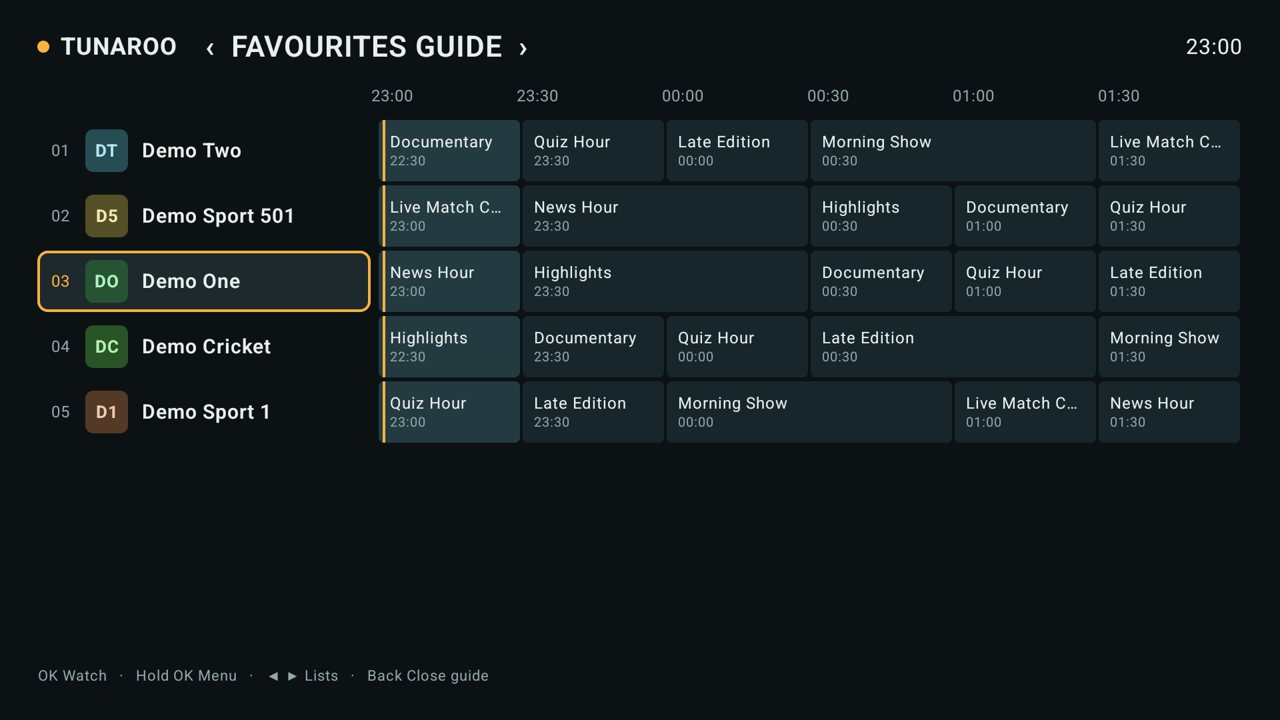
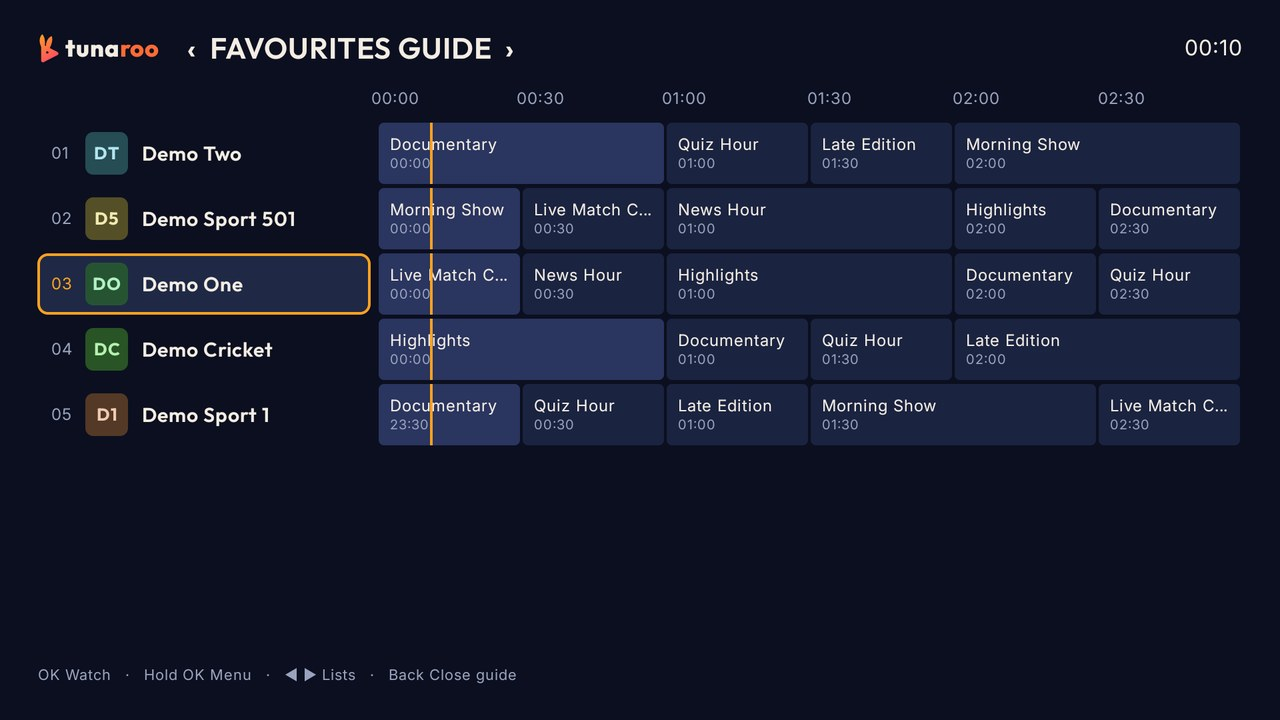
Restyle the download page in the Tunaroo brand
New logo, colours and fonts, a favicon and a share image, and fresh
screenshots of the branded player.

Claude-Session: https://claude.ai/code/session_014Md2msjondGrcrrcFXZZUN

diff --git a/index.html b/index.html
@@ -5,33 +5,45 @@
 <meta name="viewport" content="width=device-width, initial-scale=1">
 <meta name="robots" content="noindex, nofollow">
 <title>Tunaroo TV player</title>
+<link rel="icon" type="image/svg+xml" href="https://raw.githubusercontent.com/chippachip/tunaroo-downloads/main/favicon.svg">
+<link rel="apple-touch-icon" href="https://raw.githubusercontent.com/chippachip/tunaroo-downloads/main/icon-180.png">
+<meta property="og:title" content="Tunaroo TV player">
+<meta property="og:description" content="Your telly, your order. A TV player for Android TV boxes.">
+<meta property="og:image" content="https://raw.githubusercontent.com/chippachip/tunaroo-downloads/main/share.png">
+<meta name="theme-color" content="#0B1020">
+<link rel="preconnect" href="https://fonts.googleapis.com">
+<link rel="preconnect" href="https://fonts.gstatic.com" crossorigin>
+<link href="https://fonts.googleapis.com/css2?family=Inter:wght@400;500;600&family=Outfit:wght@600;700;800&display=swap" rel="stylesheet">
 <style>
-:root{--bg:#0d1315;--panel:#141c1f;--line:#27363b;--text:#e9efed;--muted:#93a7aa;--accent:#ffb23e;--ink:#1d1300}
+:root{--night:#0B1020;--dusk:#161D33;--line:#2B3555;--sand:#F4EDE4;--mist:#9AA3BD;--ochre:#FFA21F;--orange:#FF6B35;--coral:#FF3D6E;--gum:#2ED3B7;--sunset:linear-gradient(135deg,#FFA21F 0%,#FF3D6E 100%)}
 *{box-sizing:border-box}
-body{margin:0;background:var(--bg);color:var(--text);font:16px/1.55 -apple-system,"Segoe UI",Roboto,Helvetica,Arial,sans-serif}
+body{margin:0;background:var(--night) radial-gradient(ellipse 70% 50% at 20% 0%,rgba(255,107,53,.16),transparent 70%) no-repeat;color:var(--sand);font:16px/1.6 "Inter",-apple-system,"Segoe UI",Roboto,Helvetica,Arial,sans-serif}
 main{max-width:920px;margin:0 auto;padding:40px 20px 60px}
-.brand{display:flex;align-items:center;gap:12px;font-weight:800;font-size:28px;letter-spacing:.08em}
-.brand i{width:14px;height:14px;border-radius:50%;background:var(--accent)}
-h1{font-size:clamp(28px,5vw,42px);line-height:1.15;margin:28px 0 10px;max-width:18ch}
-h2{font-size:20px;margin:36px 0 10px}
+.logo{display:block;height:64px;width:auto}
+h1,h2,.btn{font-family:"Outfit","Inter",sans-serif}
+h1{font-size:clamp(32px,6vw,52px);font-weight:800;line-height:1.08;letter-spacing:-.01em;margin:36px 0 12px;max-width:16ch}
+h2{font-size:22px;font-weight:700;margin:40px 0 10px}
 p{margin:0 0 12px;max-width:65ch}
-.muted{color:var(--muted)}
-.cta{display:flex;flex-wrap:wrap;align-items:center;gap:14px 20px;margin:22px 0 8px}
-.btn{display:inline-block;background:var(--accent);color:var(--ink);font-weight:700;text-decoration:none;padding:14px 22px;border-radius:8px;font-size:18px}
-.btn:focus-visible{outline:3px solid #fff;outline-offset:3px}
-.addr{font-family:ui-monospace,Menlo,Consolas,monospace;background:var(--panel);border:1px solid var(--line);border-radius:6px;padding:4px 8px;overflow-wrap:anywhere}
-.shots{display:grid;grid-template-columns:repeat(auto-fit,minmax(260px,1fr));gap:14px;margin:26px 0 6px}
-.shots img{width:100%;height:auto;border-radius:8px;border:1px solid var(--line);display:block}
+.muted{color:var(--mist)}
+.cta{display:flex;flex-wrap:wrap;align-items:center;gap:14px 20px;margin:24px 0 8px}
+.btn{display:inline-block;background:var(--sunset);color:#fff;font-weight:700;text-decoration:none;padding:15px 24px;border-radius:12px;font-size:18px;text-shadow:0 1px 2px rgba(120,20,0,.35)}
+.btn:hover{filter:brightness(1.06)}
+.btn:focus-visible{outline:4px solid var(--ochre);outline-offset:3px}
+.addr{font-family:ui-monospace,Menlo,Consolas,monospace;font-size:14px;background:var(--dusk);border:1px solid var(--line);border-radius:6px;padding:4px 8px;overflow-wrap:anywhere}
+.shots{display:grid;grid-template-columns:repeat(auto-fit,minmax(260px,1fr));gap:14px;margin:28px 0 6px}
+.shots img{width:100%;height:auto;border-radius:12px;border:1px solid var(--line);display:block}
 ul,ol{margin:0 0 12px;padding-left:22px;max-width:65ch}
 li{margin-bottom:6px}
-.note{border-left:3px solid var(--accent);background:var(--panel);padding:12px 16px;border-radius:0 8px 8px 0;margin:18px 0;max-width:65ch}
-footer{margin-top:40px;padding-top:18px;border-top:1px solid var(--line);color:var(--muted);font-size:14px}
+li::marker{color:var(--orange)}
+.note{border-left:3px solid var(--ochre);background:var(--dusk);padding:12px 16px;border-radius:0 12px 12px 0;margin:20px 0;max-width:65ch}
+footer{margin-top:44px;padding-top:18px;border-top:1px solid var(--line);color:var(--mist);font-size:14px}
 </style>
+
 </head>
 <body>
 <main>
-  <div class="brand"><i aria-hidden="true"></i>TUNAROO</div>
-  <h1>Your channels, in your order.</h1>
+  <svg class="logo" role="img" aria-label="Tunaroo" xmlns="http://www.w3.org/2000/svg" viewBox="0 0 1064 304"><defs><linearGradient id="sun" x1="0" y1="0" x2="1" y2="1"><stop offset="0" stop-color="#FFA21F"/><stop offset="1" stop-color="#FF3D6E"/></linearGradient><linearGradient id="sunu" gradientUnits="userSpaceOnUse" x1="127" y1="77" x2="385" y2="435"><stop offset="0" stop-color="#FFA21F"/><stop offset="1" stop-color="#FF3D6E"/></linearGradient></defs><g transform="translate(0,0) scale(0.8)"><g transform="translate(-116,-66)"><path d="M170 246 C132 180 141 109 179 77 C213 113 219 175 209 246 Z M226 252 C219 180 251 117 299 101 C317 145 300 205 268 264 Z" fill="url(#sunu)" stroke="url(#sunu)" stroke-width="6" stroke-linejoin="round"/><path fill-rule="evenodd" d="M197.02 213.41 A22 22 0 0 0 165.00 233.00 L165.00 413.00 A22 22 0 0 0 197.02 432.59 L373.02 342.59 A22 22 0 0 0 373.02 303.41 Z M258 309 a15 15 0 1 0 -30 0 a15 15 0 1 0 30 0 Z" fill="url(#sunu)"/></g></g><path d="M275.96 262.0V109.97999999999999H314.24V262.0ZM252.2 186.32V154.42000000000002H338.0V186.32Z M398.5 264.42Q383.32 264.42 371.54999999999995 258.37Q359.78 252.32 353.07 241.43Q346.36 230.54 346.36 216.68V154.42000000000002H384.64V216.68Q384.64 221.07999999999998 386.4 224.38Q388.16 227.68 391.24 229.44Q394.32 231.2 398.5 231.2Q404.65999999999997 231.2 408.51 227.24Q412.36 223.28 412.36 216.68V154.42000000000002H450.64V216.68Q450.64 230.76 444.03999999999996 241.54Q437.44 252.32 425.66999999999996 258.37Q413.9 264.42 398.5 264.42Z M537.76 262.0V201.28Q537.76 193.8 533.36 189.51Q528.96 185.22 522.14 185.22Q517.52 185.22 513.89 187.2Q510.26 189.18 508.28 192.7Q506.3 196.22 506.3 201.28L491.34000000000003 194.24Q491.34000000000003 181.26 497.06000000000006 171.91Q502.78000000000003 162.56 512.79 157.39Q522.8 152.22 535.5600000000001 152.22Q547.22 152.22 556.35 157.61Q565.48 163.0 570.76 172.02Q576.04 181.04000000000002 576.04 192.48000000000002V262.0ZM468.02000000000004 262.0V154.42000000000002H506.3V262.0Z M638.96 264.2Q624.0 264.2 612.34 256.94Q600.6800000000001 249.68 594.08 237.03Q587.48 224.38 587.48 208.32Q587.48 192.04000000000002 594.08 179.28Q600.6800000000001 166.51999999999998 612.34 159.37Q624.0 152.22 638.96 152.22Q649.08 152.22 657.44 155.85000000000002Q665.8 159.48000000000002 671.19 166.08Q676.58 172.68 677.6800000000001 181.04000000000002V235.16Q676.58 243.74 671.19 250.23000000000002Q665.8 256.72 657.44 260.46000000000004Q649.08 264.2 638.96 264.2ZM647.1 230.1Q656.5600000000001 230.1 662.3900000000001 223.94Q668.22 217.78 668.22 208.1Q668.22 201.72 665.58 196.88Q662.94 192.04000000000002 658.21 189.18Q653.48 186.32 647.32 186.32Q641.16 186.32 636.4300000000001 189.18Q631.7 192.04000000000002 628.95 196.99Q626.2 201.94 626.2 208.1Q626.2 214.48 628.84 219.43Q631.48 224.38 636.3199999999999 227.24Q641.16 230.1 647.1 230.1ZM666.6800000000001 262.0V233.18L672.1800000000001 206.78L666.6800000000001 180.82V154.42000000000002H704.3V262.0Z" fill="#F4EDE4"/><path d="M724.54 262.0V154.42000000000002H762.8199999999999V262.0ZM762.8199999999999 203.48 745.66 188.95999999999998Q752.04 170.7 762.5999999999999 161.45999999999998Q773.16 152.22 790.0999999999999 152.22Q797.8 152.22 803.41 154.2Q809.02 156.18 812.9799999999999 160.36L790.76 190.06Q789.0 188.07999999999998 785.81 186.87Q782.6199999999999 185.66 778.66 185.66Q771.18 185.66 767.0 190.17000000000002Q762.8199999999999 194.68 762.8199999999999 203.48Z M875.02 264.42Q857.64 264.42 844.1099999999999 257.05Q830.5799999999999 249.68 822.66 236.81Q814.74 223.94 814.74 207.88Q814.74 191.82 822.55 179.17Q830.36 166.51999999999998 844.0 159.14999999999998Q857.64 151.78 874.8 151.78Q891.96 151.78 905.49 159.14999999999998Q919.02 166.51999999999998 926.94 179.17Q934.86 191.82 934.86 207.88Q934.86 223.94 927.05 236.81Q919.24 249.68 905.71 257.05Q892.18 264.42 875.02 264.42ZM874.8 230.32Q881.18 230.32 885.91 227.57Q890.64 224.82 893.28 219.76Q895.92 214.7 895.92 208.1Q895.92 201.5 893.17 196.55Q890.42 191.6 885.8 188.85Q881.18 186.1 874.8 186.1Q868.64 186.1 863.8 188.95999999999998Q858.9599999999999 191.82 856.3199999999999 196.76999999999998Q853.68 201.72 853.68 208.32Q853.68 214.7 856.3199999999999 219.76Q858.9599999999999 224.82 863.8 227.57Q868.64 230.32 874.8 230.32Z M1000.86 264.42Q983.48 264.42 969.95 257.05Q956.42 249.68 948.5 236.81Q940.58 223.94 940.58 207.88Q940.58 191.82 948.3900000000001 179.17Q956.2 166.51999999999998 969.84 159.14999999999998Q983.48 151.78 1000.64 151.78Q1017.8 151.78 1031.33 159.14999999999998Q1044.86 166.51999999999998 1052.78 179.17Q1060.7 191.82 1060.7 207.88Q1060.7 223.94 1052.8899999999999 236.81Q1045.08 249.68 1031.55 257.05Q1018.02 264.42 1000.86 264.42ZM1000.64 230.32Q1007.02 230.32 1011.75 227.57Q1016.48 224.82 1019.12 219.76Q1021.76 214.7 1021.76 208.1Q1021.76 201.5 1019.01 196.55Q1016.26 191.6 1011.64 188.85Q1007.02 186.1 1000.64 186.1Q994.48 186.1 989.64 188.95999999999998Q984.8 191.82 982.16 196.76999999999998Q979.52 201.72 979.52 208.32Q979.52 214.7 982.16 219.76Q984.8 224.82 989.64 227.57Q994.48 230.32 1000.64 230.32Z" fill="#FF6B35"/></svg>
+  <h1>Your telly, your order.</h1>
   <p>Tunaroo is a TV player for Android TV boxes. It opens on your own lists of favourite channels, in the order you set, with a guide that follows the same order.</p>
 
   <div class="cta">
